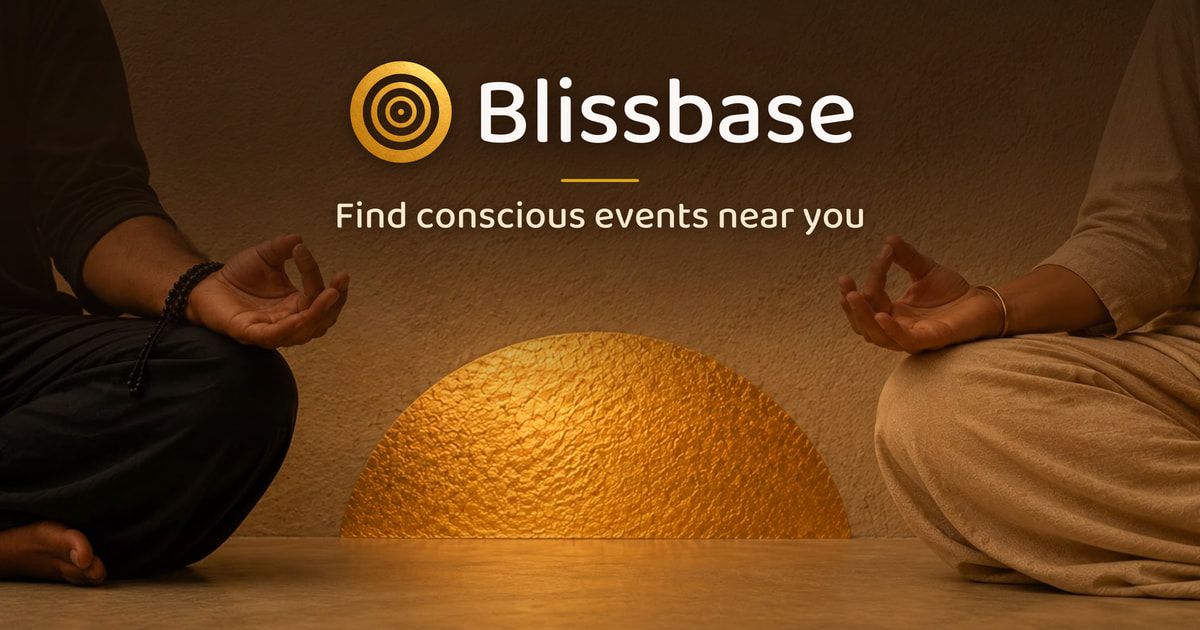
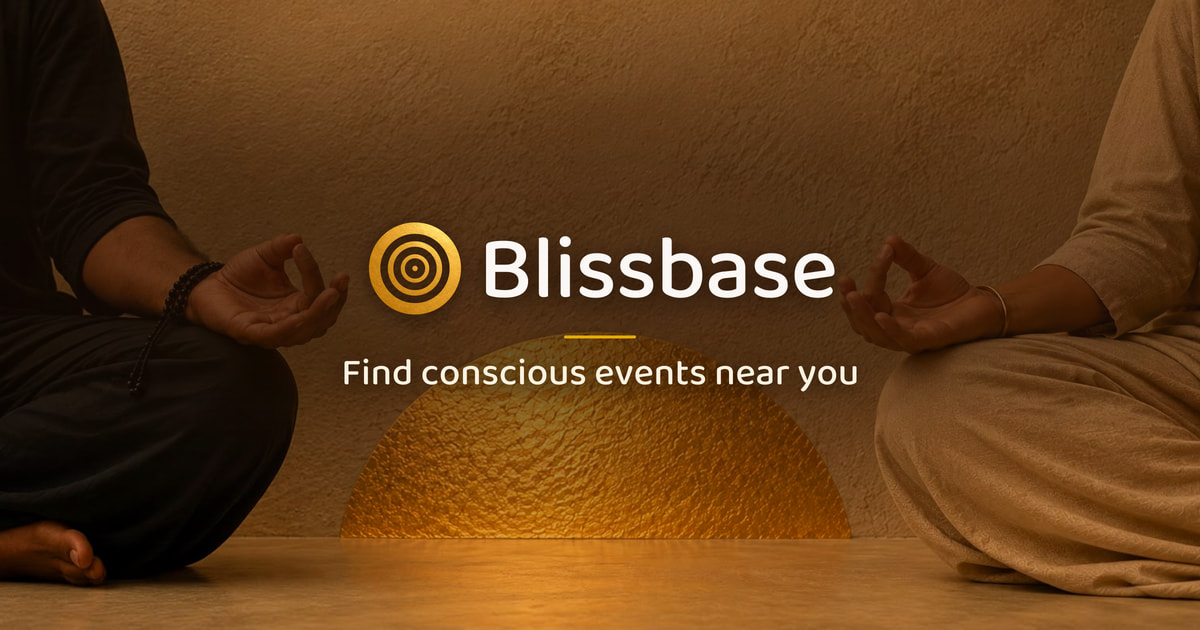
Center text lockup in home page OG image (Option A)

diff --git a/src/lib/server/og/ogPoster.ts b/src/lib/server/og/ogPoster.ts
@@ -145,8 +145,8 @@ export async function composeOgPoster({
 
 /**
  * Composes the home page 1200×630 OG image ("Golden Horizon") directly over the
- * event-page hero photography with a sculpted warm-espresso top veil so the
- * wordmark and tagline sit cleanly above the meditating hands and rising sun.
+ * event-page hero photography with the brand lockup and tagline centered
+ * between the meditating hands over a seamless warm-umber dusk cushion.
  */
 export async function composeHomeOgPoster({
 	title,
@@ -167,76 +167,86 @@ export async function composeHomeOgPoster({
 
 	const bg = await sharp(heroBackground)
 		.resize(width, height, { fit: `cover`, position: `south` })
-		.modulate({ brightness: 1, saturation: 1.04 })
+		.modulate({ brightness: 1.03, saturation: 1.08 })
 		.png()
 		.toBuffer();
 
+	const blockCenterY = 305;
+	const cyPct = ((blockCenterY / OG_HEIGHT) * 100).toFixed(1);
 	const scrimSvg = Buffer.from(`
 		<svg xmlns="http://www.w3.org/2000/svg" width="${width}" height="${height}">
 			<defs>
-				<linearGradient id="topScrim" x1="0" y1="0" x2="0" y2="1">
-					<stop offset="0%" stop-color="#1b0f06" stop-opacity="0.78"/>
-					<stop offset="22%" stop-color="#221308" stop-opacity="0.70"/>
-					<stop offset="40%" stop-color="#2a170a" stop-opacity="0.46"/>
-					<stop offset="56%" stop-color="#2a170a" stop-opacity="0.10"/>
-					<stop offset="68%" stop-color="#2a170a" stop-opacity="0.00"/>
-					<stop offset="100%" stop-color="#1a0e05" stop-opacity="0.14"/>
+				<linearGradient id="ambient" x1="0" y1="0" x2="0" y2="1">
+					<stop offset="0%" stop-color="#221206" stop-opacity="0.33"/>
+					<stop offset="28%" stop-color="#201106" stop-opacity="0.46"/>
+					<stop offset="56%" stop-color="#201106" stop-opacity="0.41"/>
+					<stop offset="72%" stop-color="#241307" stop-opacity="0.12"/>
+					<stop offset="86%" stop-color="#241307" stop-opacity="0.00"/>
+					<stop offset="100%" stop-color="#1c0f05" stop-opacity="0.06"/>
 				</linearGradient>
-				<radialGradient id="textCushion" cx="50%" cy="21%" r="44%">
-					<stop offset="0%" stop-color="#201106" stop-opacity="0.48"/>
-					<stop offset="58%" stop-color="#201106" stop-opacity="0.24"/>
-					<stop offset="100%" stop-color="#201106" stop-opacity="0.00"/>
+				<radialGradient id="centerCushion" cx="50%" cy="${cyPct}%" rx="48%" ry="25%">
+					<stop offset="0%" stop-color="#190c04" stop-opacity="0.46"/>
+					<stop offset="58%" stop-color="#1e0f05" stop-opacity="0.29"/>
+					<stop offset="88%" stop-color="#241307" stop-opacity="0.06"/>
+					<stop offset="100%" stop-color="#241307" stop-opacity="0.00"/>
 				</radialGradient>
 			</defs>
-			<rect width="${width}" height="${height}" fill="url(#topScrim)"/>
-			<rect width="${width}" height="${height}" fill="url(#textCushion)"/>
+			<rect width="${width}" height="${height}" fill="url(#ambient)"/>
+			<rect width="${width}" height="${height}" fill="url(#centerCushion)"/>
 		</svg>
 	`);
 
-	const logoDiameter = px(108);
+	const logoDiameter = px(98);
 	const logo = await prepareAntialiasedLogo({
 		goldLogo,
 		size: logoDiameter,
-		shadow: { dy: px(4), blur: px(9), opacity: 0.55 },
+		shadow: { dy: px(4), blur: px(10), opacity: 0.62 },
 	});
 
 	const titleLayer = await renderCanonicalBrandText({
 		text: title,
 		font: brandFont,
-		fontSize: px(96),
+		fontSize: px(90),
 		fill: `#faf7f5`,
 		letterSpacing: px(-0.8),
-		shadow: { dy: px(4), blur: px(10), color: `rgba(18, 9, 3, 0.55)` },
+		shadow: { dy: px(4), blur: px(12), color: `rgba(14, 7, 2, 0.70)` },
 	});
 	const subtitleLayer = await renderCanonicalBrandText({
 		text: subtitle,
 		font: brandFont,
-		fontSize: px(39),
-		fill: `#f5e8cf`,
+		fontSize: px(38),
+		fill: `#faf2e1`,
 		letterSpacing: px(0.2),
-		shadow: { dy: px(3), blur: px(8), color: `rgba(18, 9, 3, 0.60)` },
+		shadow: { dy: px(3), blur: px(11), color: `rgba(14, 7, 2, 0.78)` },
 	});
 
-	const logoGap = px(26);
+	const logoGap = px(22);
 	const lockupWidth = logoDiameter + logoGap + titleLayer.visualWidth;
+	const lockupHeight = Math.max(logoDiameter, titleLayer.visualHeight);
+	const gapLockupRule = px(18);
+	const ruleHeight = px(3);
+	const gapRuleSubtitle = px(20);
+	const totalBlockHeight = lockupHeight + gapLockupRule + ruleHeight + gapRuleSubtitle + subtitleLayer.visualHeight;
+
+	const blockTop = Math.round(px(blockCenterY) - totalBlockHeight / 2);
+	const lockupCenterY = blockTop + Math.round(lockupHeight / 2);
 	const lockupX = Math.round((width - lockupWidth) / 2);
-	const lockupCenterY = px(112);
 
 	const logoLeft = lockupX - logo.pad;
 	const logoTop = Math.round(lockupCenterY - logoDiameter / 2) - logo.pad;
 	const titleLeft = lockupX + logoDiameter + logoGap - titleLayer.padX;
 	const titleTop = Math.round(lockupCenterY - titleLayer.visualHeight / 2) - titleLayer.padY - px(2);
 
-	const ruleWidth = px(78);
-	const ruleY = px(179);
+	const ruleWidth = px(72);
+	const ruleY = blockTop + lockupHeight + gapLockupRule;
 	const ruleSvg = Buffer.from(`
 		<svg xmlns="http://www.w3.org/2000/svg" width="${width}" height="${height}">
-			<rect x="${Math.round((width - ruleWidth) / 2)}" y="${ruleY}" width="${ruleWidth}" height="${px(3)}" rx="${px(1.5)}" fill="${PRIMARY}" fill-opacity="0.92"/>
+			<rect x="${Math.round((width - ruleWidth) / 2)}" y="${ruleY}" width="${ruleWidth}" height="${ruleHeight}" rx="${px(1.5)}" fill="${PRIMARY}" fill-opacity="0.95"/>
 		</svg>
 	`);
 
 	const subtitleLeft = Math.round((width - subtitleLayer.visualWidth) / 2) - subtitleLayer.padX;
-	const subtitleTop = px(201) - subtitleLayer.padY;
+	const subtitleTop = ruleY + ruleHeight + gapRuleSubtitle - subtitleLayer.padY;
 
 	const composed = await sharp(bg)
 		.composite([
